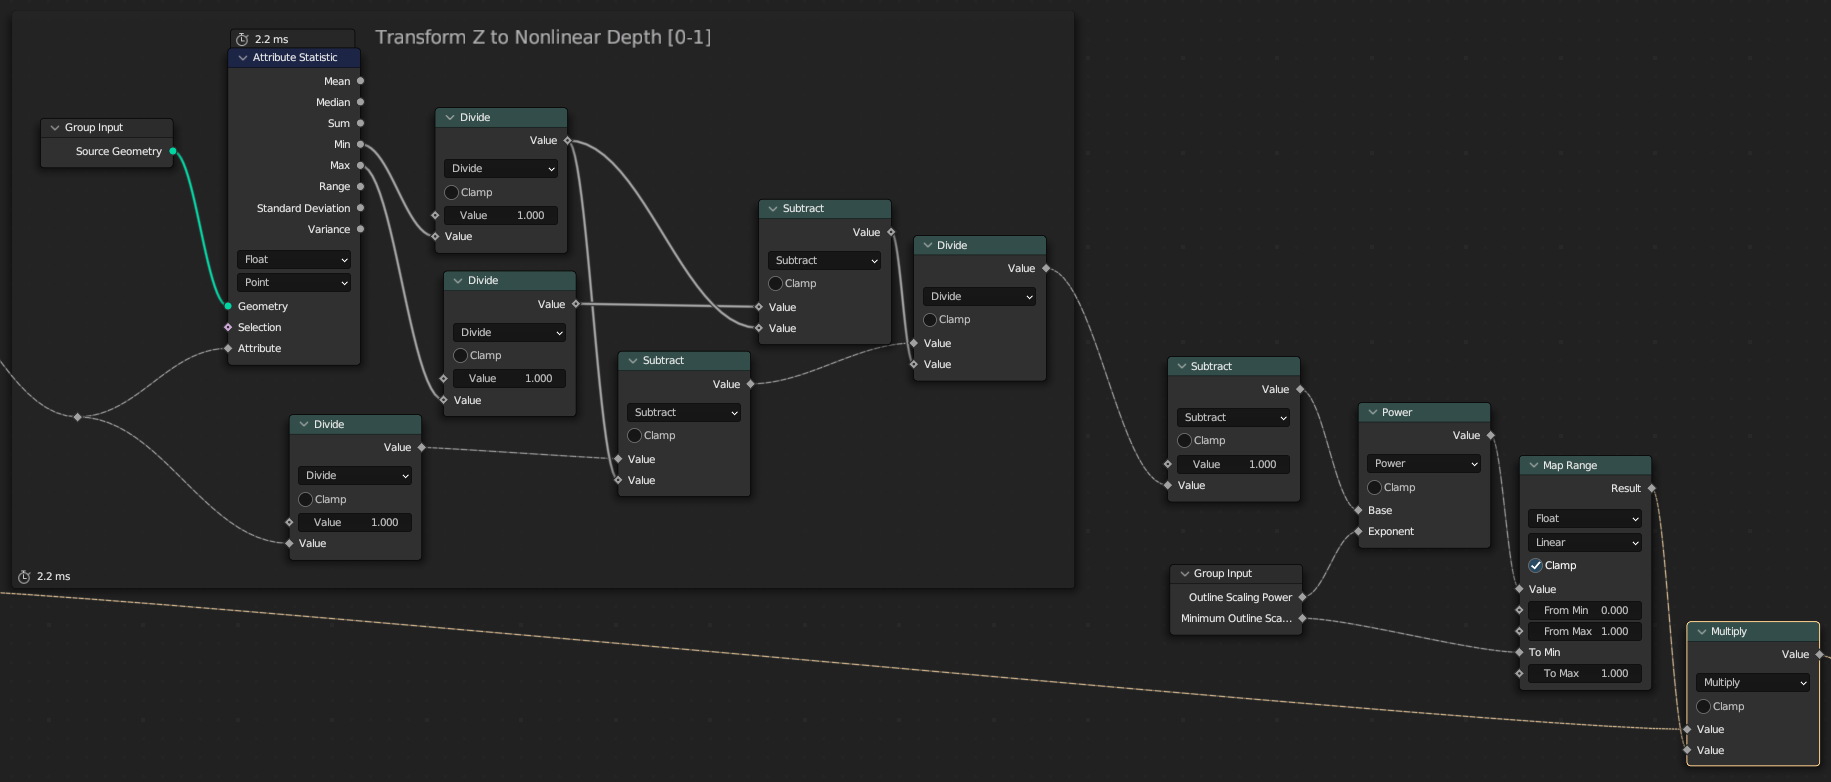
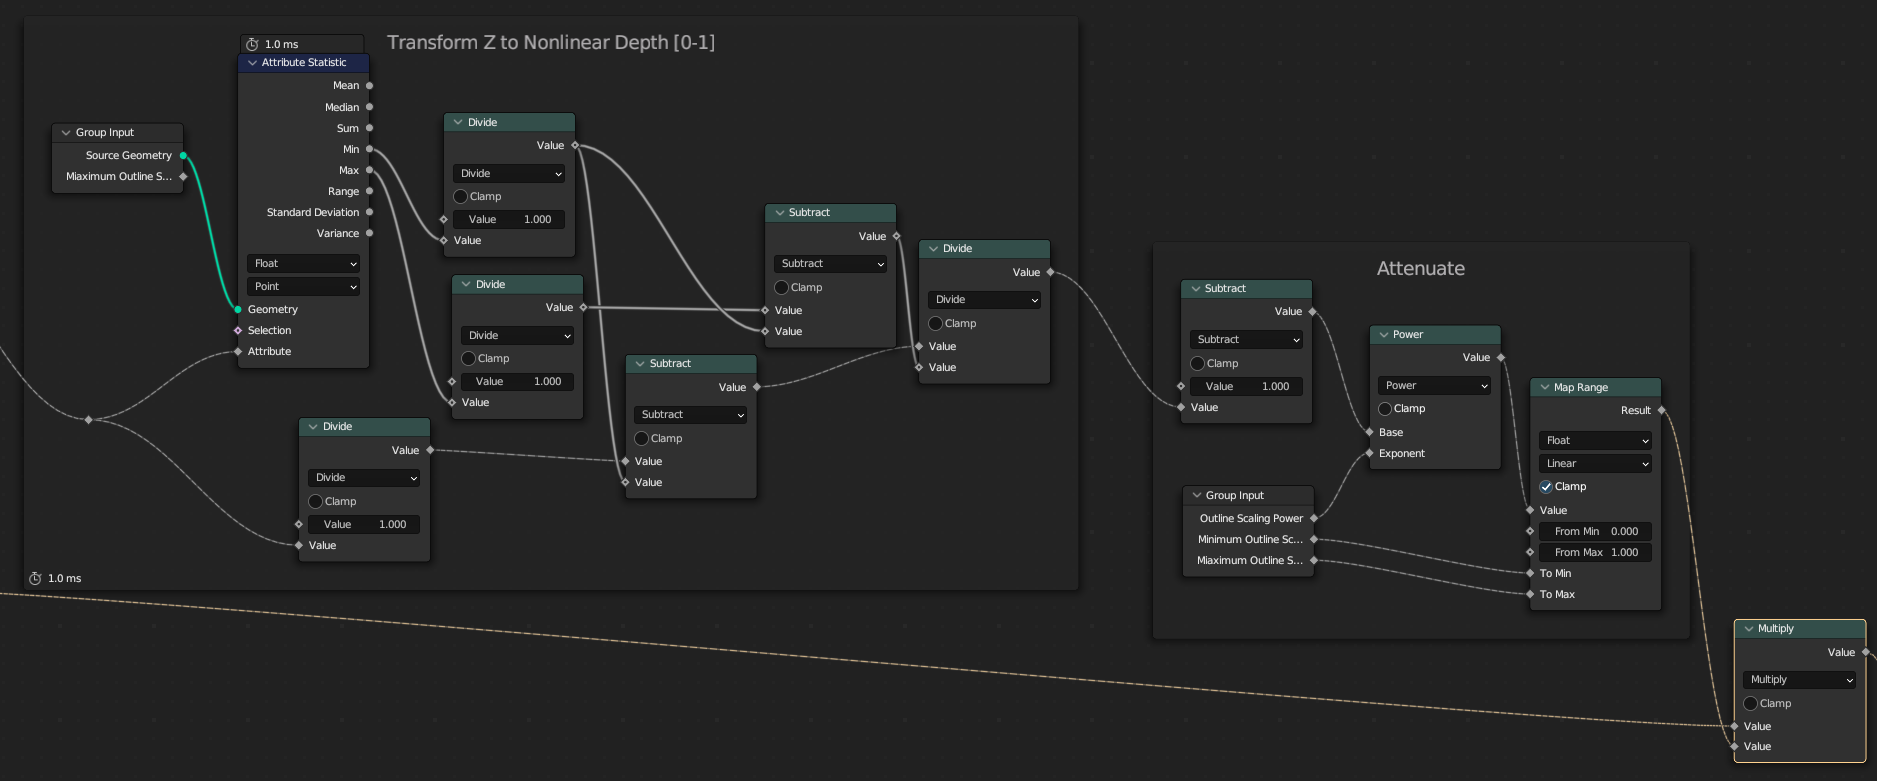
Add maximum outline size to attenuation step

diff --git a/_posts/2023-7-10-GeonodeOutline3.6.md b/_posts/2023-7-10-GeonodeOutline3.6.md
@@ -106,7 +106,7 @@ First we calculate the orthogonal distance from our camera to a viewplane that h
 
 **2c.** What is mathematically correct isn't necessarily what we want. Often, you'd want objects far away to have thinner lines, or have a line taper as it stretches into space. Thus, we must attenuate the value we computed in step **2a**.
 
-Intuitively, we would scale the values down based on its distance from the camera; we can use the previously computed length to viewplane value. However, this is pure linear Z value, meaning that if it's re-mapped to 0-1, most of its values will lie on the upper range. Similar to how we must transform a Z buffer into a non-linear depth buffer, we must do the same here. Then we can attenuate it with a power factor, use map range to map a minimum value for the outline, and finally multiply it with the value from step **2a**. 
+Intuitively, we would scale the values down based on its distance from the camera; we can use the previously computed length to viewplane value. However, this is pure linear Z value, meaning that if it's re-mapped to 0-1, most of its values will lie on the upper range. Similar to how we must transform a Z buffer into a non-linear depth buffer, we must do the same here. Then we can attenuate it with a power factor, use map range to map a minimum value and maximum value for the outline, and finally multiply it with the value from step **2a**. 
 
 ![Attenuation and G Vector](/assets/geonode_outline/images/2c_attenuation_3.6.png)
 
